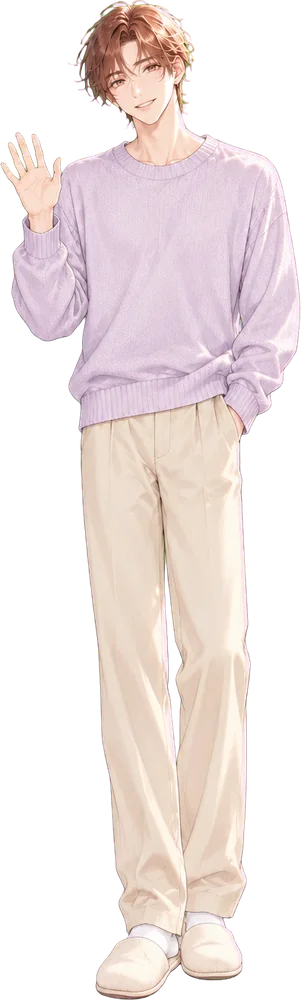
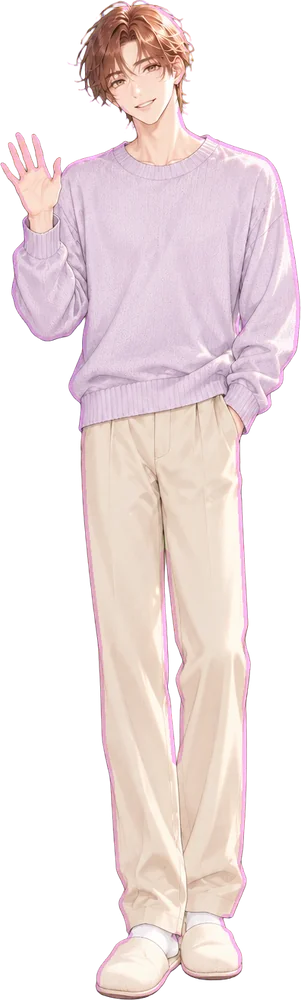
남주 상황별 옷차림(집/일터) 누끼 48장 연결

diff --git a/index.html b/index.html
@@ -472,7 +472,7 @@ h1,h2,h3,.wordmark,.hud-line b,.sh-head b,.wizq h2,input[type=text]{font-family:
    <button class="btn blue" id="b-new">새로 시작</button>
    <button class="btn ghost sm" id="b-slots" style="display:none;background:rgba(255,255,255,.8)">저장 슬롯 불러오기</button>
    <button class="btn ghost sm" id="b-cont" style="display:none;background:rgba(255,255,255,.8)">이어하기</button>
-   <div class="note">저장은 이 기기에만 보관돼요. · 빌드 #101 · 2026.10.11<br><span id="fitdiag"></span></div>
+   <div class="note">저장은 이 기기에만 보관돼요. · 빌드 #104 · 2026.10.11<br><span id="fitdiag"></span></div>
   </div>
  </section>
  <section id="setup" class="screen">
@@ -511,7 +511,7 @@ h1,h2,h3,.wordmark,.hud-line b,.sh-head b,.wizq h2,input[type=text]{font-family:
  <div id="agegate" class="agegate"><div class="agbox"><div class="agmark">19</div><h2>성인 이용 안내</h2><p>이 게임에는 성인 연애 묘사(암시적 장면)가 포함되어 있어<br>만 19세 이상만 이용할 수 있어요.</p><label for="ag-year">태어난 해</label><select id="ag-year"></select><button id="ag-ok" class="agok">확인하고 시작하기</button><button id="ag-no" class="agno">나가기</button><small id="ag-msg"></small></div></div>
  <div id="act" class="actcard"></div>
  <div id="ev" class="evcard"></div>
- <div id="buildtag">빌드 #101 · 2026.10.11</div>
+ <div id="buildtag">빌드 #104 · 2026.10.11</div>
  <div class="ov" id="ov"><div class="sheet" id="sheet"></div></div>
 </div>
 <script>// ==ENGINE== 순수 게임 로직 (DOM 금지: sim.mjs가 이 파일들을 그대로 실행한다)
@@ -6872,7 +6872,7 @@ const PLACE_IMG = {shop:'art/bg_shop.webp', rain:'art/bg_alley.webp'}, PLACE_POS
 const heroKey = S => S.m < 24 ? 'age20' : S.m < 48 ? 'age22' : S.m < 72 ? 'age25' : S.m < 96 ? 'age27' : 'age30';
 // 계절마다 옷·머리·배경이 다른 주인공 그림 (봄은 기본 그림). 빌드 때 art/ 에 있는 계절 그림 목록이 들어온다.
 const HERO_SEASONAL = new Set(["age20_autumn","age20_summer","age20_winter","age22_autumn","age22_summer","age22_winter","age25_autumn","age25_summer","age25_winter","age27_autumn","age27_summer","age27_winter","age30_autumn","age30_summer","age30_winter"]);
-const CUT_OUTFIT = new Set([]); // art/cut/<인물>_<work|home>_<a|b>.webp: 상황별 옷차림 누끼
+const CUT_OUTFIT = new Set(["dohyun_home_a","dohyun_home_b","dohyun_work_a","dohyun_work_b","geonwoo_home_a","geonwoo_home_b","geonwoo_work_a","geonwoo_work_b","hajin_home_a","hajin_home_b","hajin_work_a","hajin_work_b","jaewoo_home_a","jaewoo_home_b","jaewoo_work_a","jaewoo_work_b","jihu_home_a","jihu_home_b","jihu_work_a","jihu_work_b","minjun_home_a","minjun_home_b","minjun_work_a","minjun_work_b","raon_home_a","raon_home_b","raon_work_a","raon_work_b","seunghyun_home_a","seunghyun_home_b","seunghyun_work_a","seunghyun_work_b","sian_home_a","sian_home_b","sian_work_a","sian_work_b","taeoh_home_a","taeoh_home_b","taeoh_work_a","taeoh_work_b","ujin_home_a","ujin_home_b","ujin_work_a","ujin_work_b","yuchan_home_a","yuchan_home_b","yuchan_work_a","yuchan_work_b"]); // art/cut/<인물>_<work|home>_<a|b>.webp: 상황별 옷차림 누끼
 // 상황에 맞는 옷: 집이면 홈웨어(home), 졸업 뒤 사무실·카페 같은 일터 장면이면 직업 차림(work), 그 밖엔 평상복
 function cutOutfit(ev, id){
   if(!LOVERS[id]) return '';
@@ -7453,7 +7453,7 @@ function initGame(){
   $('btn-advice').onclick = () => { if($('dialog').hidden) showDialog(); else $('dialog').hidden = true; };
   $('dlg-x').onclick = () => { $('dialog').hidden = true; };
   document.querySelectorAll('[data-sheet]').forEach(b => b.onclick = () => ({stat:showStats, career:showCareer, love:showLove, dex:showDex, shop:showShop, campus:showCampus, city:showCity, dex:showDex}[b.dataset.sheet])());
-  $('b-menu').onclick = () => { openSheet(sheetHead('메뉴') + `<div class="menu-list"><button class="btn ghost sm" id="m-dex">📖 도감 (엔딩·인물)</button><button class="btn ghost sm" id="m-speed">⏩ 스케줄 연출: ${SPEED_LB[getSpeed()]}</button><button class="btn ghost sm" id="m-update">🔄 새 버전 확인</button><button class="btn ghost sm" id="m-slots">💾 저장 · 불러오기 (슬롯 5개)</button><button class="btn ghost sm" id="m-title">🏠 타이틀로 (자동 저장)</button></div><div class="foot">빌드 #101 · 2026.10.11<br><span id="diag"></span></div>`);
+  $('b-menu').onclick = () => { openSheet(sheetHead('메뉴') + `<div class="menu-list"><button class="btn ghost sm" id="m-dex">📖 도감 (엔딩·인물)</button><button class="btn ghost sm" id="m-speed">⏩ 스케줄 연출: ${SPEED_LB[getSpeed()]}</button><button class="btn ghost sm" id="m-update">🔄 새 버전 확인</button><button class="btn ghost sm" id="m-slots">💾 저장 · 불러오기 (슬롯 5개)</button><button class="btn ghost sm" id="m-title">🏠 타이틀로 (자동 저장)</button></div><div class="foot">빌드 #104 · 2026.10.11<br><span id="diag"></span></div>`);
     $('x').onclick = closeSheet;
     try{ const pr = document.createElement('div'); pr.style.cssText = 'position:fixed;left:0;bottom:0;padding-bottom:env(safe-area-inset-bottom);padding-top:env(safe-area-inset-top);visibility:hidden'; document.body.appendChild(pr); const cs = getComputedStyle(pr), sb = cs.paddingBottom, st = cs.paddingTop; pr.remove(); const sa = window.navigator.standalone === true || matchMedia('(display-mode: standalone)').matches; $('diag').textContent = `화면 ${innerWidth}×${innerHeight} · 기기 ${screen.width}×${screen.height} · 안전영역 위 ${st}/아래 ${sb} · ${sa ? '홈 화면 앱' : '브라우저'}`; }catch(e){}
     $('m-dex').onclick = () => { closeSheet(); showDex(); };
@@ -7515,7 +7515,7 @@ function probeFit(big){
 fitFull(); addEventListener('resize', fitFull); addEventListener('orientationchange', () => setTimeout(fitFull, 300)); setTimeout(fitFull, 600);
 
 // ── 새 버전 확인: 사파리는 페이지를 몇 분간 기억해 두므로, 서버의 빌드 번호와 비교해 알려 준다 ──
-const BUILD_NO = parseInt(('#101 · 2026.10.11'.match(/#(\d+)/) || [0, 0])[1], 10);
+const BUILD_NO = parseInt(('#104 · 2026.10.11'.match(/#(\d+)/) || [0, 0])[1], 10);
 async function checkUpdate(manual){
   try{
     const r = await fetch(location.pathname + '?_=' + Date.now(), {cache:'no-store'}); const txt = await r.text();

diff --git a/sw.js b/sw.js
@@ -1,5 +1,5 @@
 // 자동 생성 파일 (build.mjs). 직접 수정하지 마세요.
-const CACHE = 'rewind-ten-cc471fb66a';
+const CACHE = 'rewind-ten-90b207336a';
 const CORE = ["./","index.html","manifest.json","icon-192.png","icon-512.png","art/cover.webp","art/age20.webp","art/age22.webp","art/act_study.webp","art/act_cafe.webp","art/act_rest.webp","art/act_friends.webp","art/face_happy.webp","art/face_tired.webp"];
 self.addEventListener('install', e => { e.waitUntil(caches.open(CACHE).then(c => c.addAll(CORE)).then(() => self.skipWaiting())); });
 self.addEventListener('activate', e => { e.waitUntil(caches.keys().then(ks => Promise.all(ks.filter(k => k.startsWith('rewind-ten-') && k !== CACHE).map(k => caches.delete(k)))).then(() => self.clients.claim())); });
